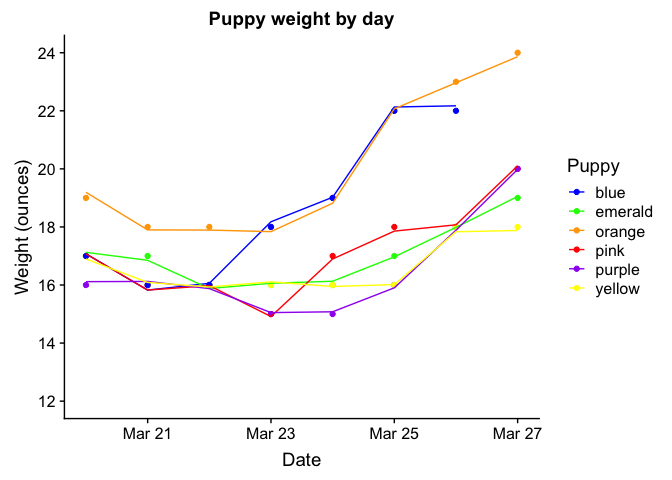
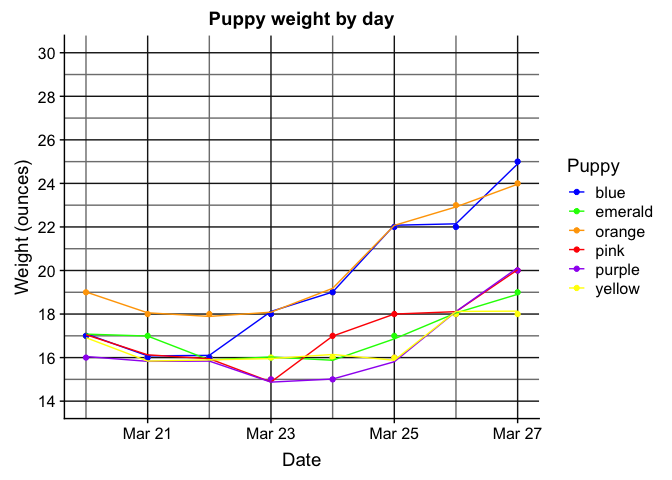
Adds grid lines to plot. Displays raw data in table.

Changed region(s): [[0.0625, 0.0938, 0.8125, 0.8438]]

diff --git a/vignettes/PuppyWeightGain-2019.md b/vignettes/PuppyWeightGain-2019.md
@@ -1,7 +1,7 @@
 Puppy Weight Gain
 ================
 [Jim Tyhurst](https://www.jimtyhurst.com/)
-2019-03-27
+2019-03-28
 
   - [tl;dr](#tldr)
   - [Context](#context)
@@ -10,6 +10,19 @@ Puppy Weight Gain
   - [Exploring the Data](#exploring-the-data)
 
 ## tl;dr
+
+    #> [1] "Puppy weight by day"
+    #> # A tibble: 8 x 7
+    #>   date        pink emerald orange purple yellow  blue
+    #>   <date>     <dbl>   <dbl>  <dbl>  <dbl>  <dbl> <dbl>
+    #> 1 2019-03-20    17      17     19     16     17    17
+    #> 2 2019-03-21    16      17     18     16     16    16
+    #> 3 2019-03-22    16      16     18     16     16    16
+    #> 4 2019-03-23    15      16     18     15     16    18
+    #> 5 2019-03-24    17      16     19     15     16    19
+    #> 6 2019-03-25    18      17     22     16     16    22
+    #> 7 2019-03-26    18      18     23     18     18    22
+    #> 8 2019-03-27    20      19     24     20     18    25
 
 ![](PuppyWeightGain-2019_files/figure-gfm/unnamed-chunk-1-1.png)<!-- -->
 
@@ -74,8 +87,6 @@ weights <- system.file("extdata", "weights-2019", "puppies-2019-weight-in-oz.csv
 #>   yellow = col_double(),
 #>   blue = col_double()
 #> )
-start_date <- min(weights$date)
-end_date <- max(weights$date)
 
 # Plots weight by day.
 # Need to jitter the lines vertically slightly, otherwise one 
@@ -89,9 +100,14 @@ weights %>%
   scale_color_manual(values=puppy_id_to_color) +
   ggtitle("Puppy weight by day") +
   scale_y_continuous(
-    limits = c(12, 24), 
-    breaks = seq(12, 24, by = 2)
+    limits = c(14, 30), 
+    minor_breaks = seq(14, 30, 1),
+    breaks = seq(14, 30, by = 2)
   ) + 
+  theme(
+    panel.grid.minor = element_line(colour="gray50", size=0.5),
+    panel.grid.major = element_line(colour="gray10", size=0.5)
+  ) +
   labs(x = "Date", y = "Weight (ounces)", color = "Puppy")
 ```
 
